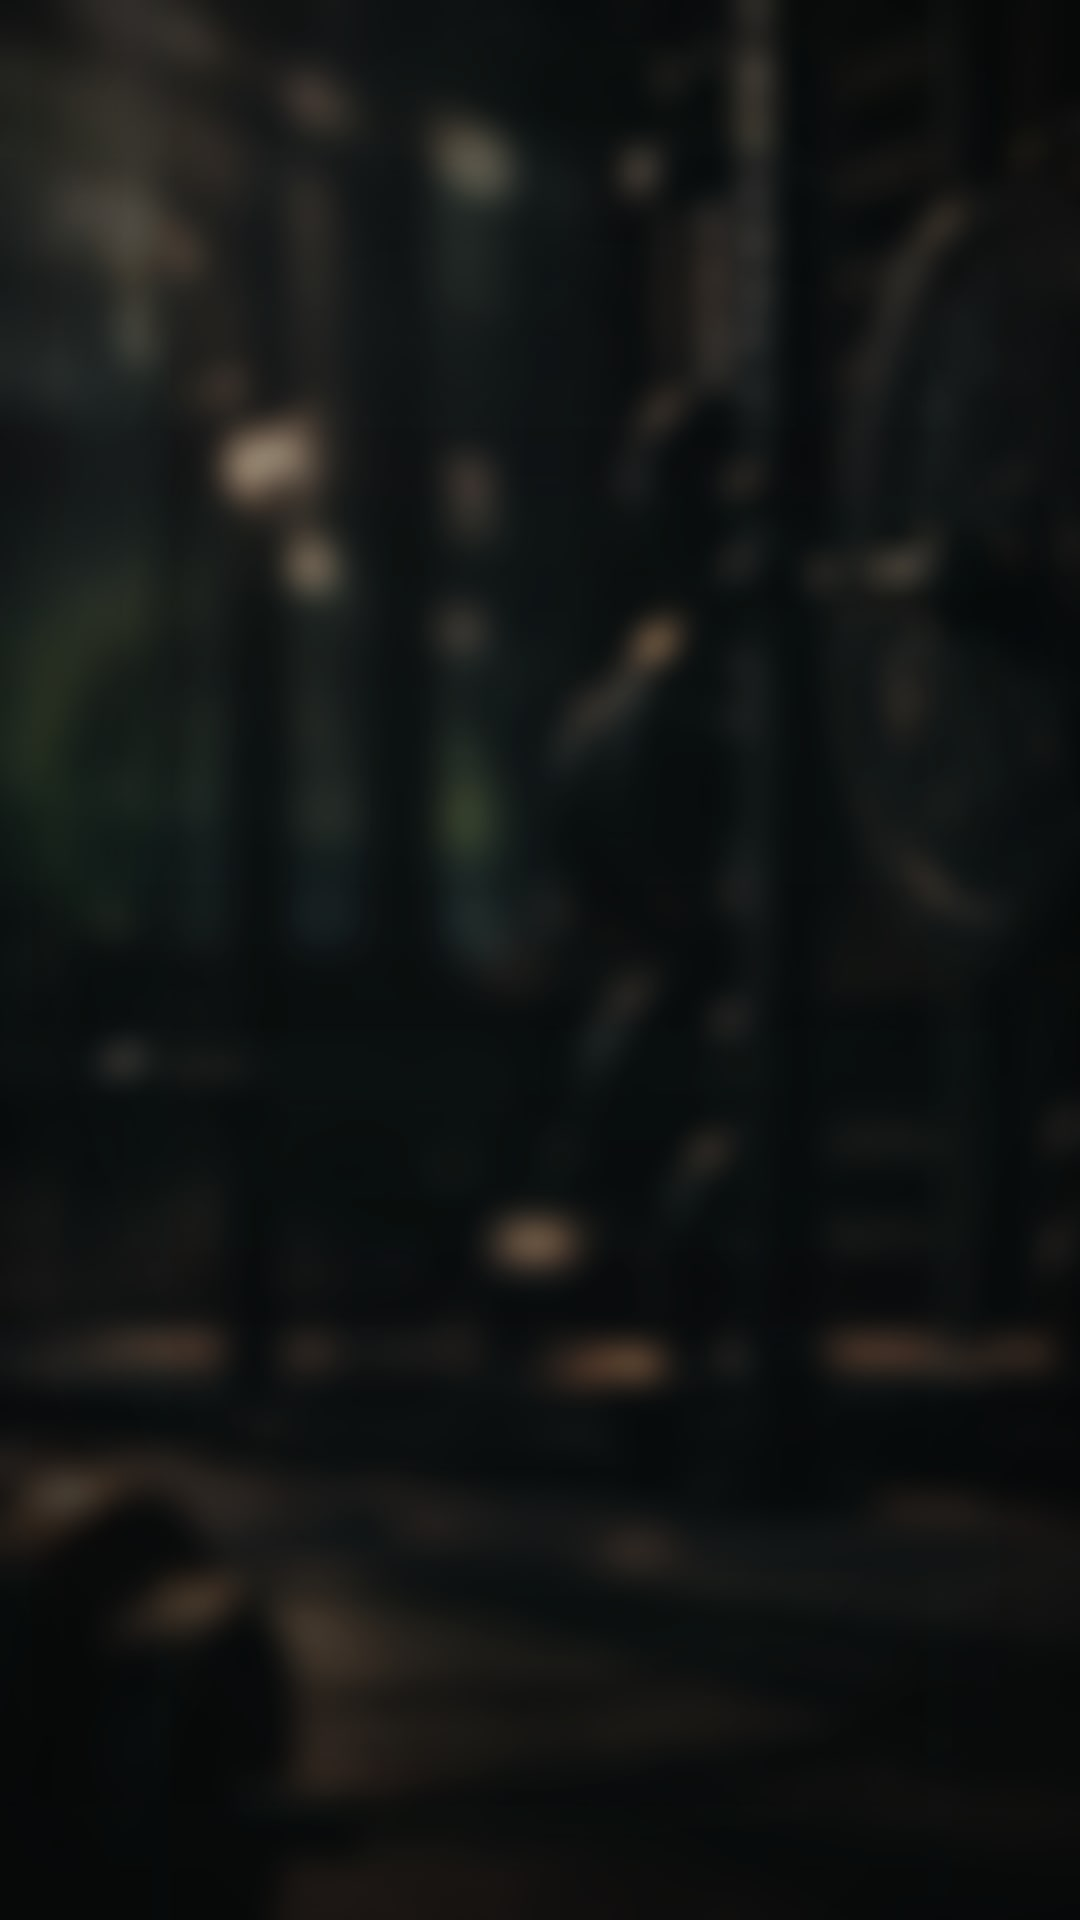
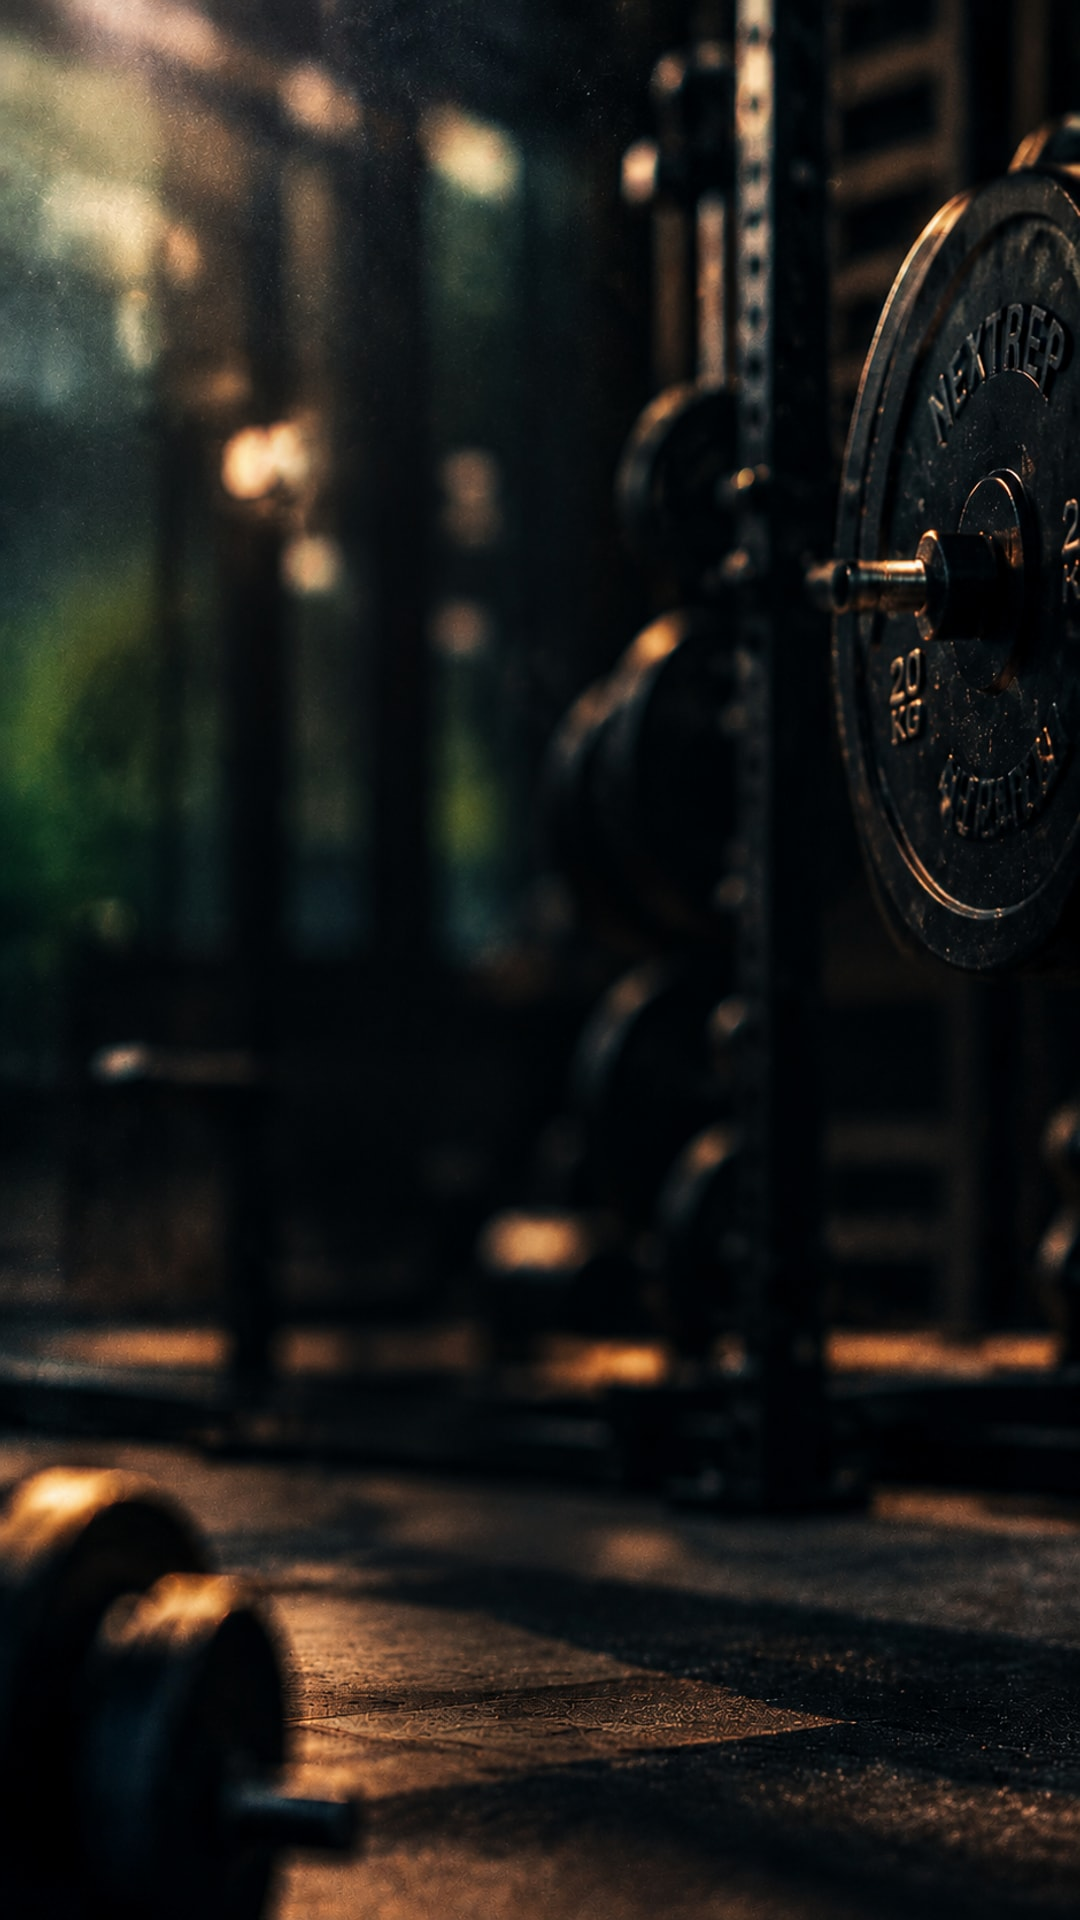
fix(workout): fill the summary card with the sharp gym photo

diff --git a/src/components/workout-share-card.tsx b/src/components/workout-share-card.tsx
@@ -1,3 +1,4 @@
+import { Image as ExpoImage } from 'expo-image';
 import { LinearGradient } from 'expo-linear-gradient';
 import * as Sharing from 'expo-sharing';
 import { Calendar, Check, Share2 } from 'lucide-react-native';
@@ -69,9 +70,9 @@ function getCardScale(availableWidth: number): number {
 /**
  * 9:16 shareable workout completion asset.
  *
- * A dark, heavily blurred gym photograph supplies the atmosphere; the data sits
- * on two restrained frosted surfaces and the typography carries the hierarchy.
- * All values, PR detection and sharing behavior remain live from the store.
+ * A crisp, low-key gym photograph supplies the atmosphere; the data sits on two
+ * restrained frosted surfaces and the typography carries the hierarchy. All
+ * values, PR detection and sharing behavior remain live from the store.
  */
 export const WorkoutShareCard = forwardRef<WorkoutShareCardHandle, WorkoutShareCardProps>(
   function WorkoutShareCard({ workout, allWorkouts, gender = 'male' }, ref) {
@@ -212,19 +213,20 @@ export const WorkoutShareCard = forwardRef<WorkoutShareCardHandle, WorkoutShareC
             const width = event.nativeEvent.layout.width;
             setCanvasWidth((current) => (Math.abs(current - width) > 0.5 ? width : current));
           }}>
-          {/* Blurred, darkened gym photograph — atmosphere only */}
-          <Image
+          {/* Crisp gym photograph — the subject stays readable behind the type */}
+          <ExpoImage
             source={require('../../assets/images/gym-atmosphere.jpg')}
-            style={StyleSheet.absoluteFill}
-            resizeMode="cover"
+            style={styles.backgroundImage}
+            contentFit="cover"
+            transition={0}
           />
 
           {/* Neutral scrim protects the type without flattening the photograph */}
           <LinearGradient
             colors={[
+              'rgba(2, 6, 5, 0.22)',
+              'rgba(2, 6, 5, 0.04)',
               'rgba(2, 6, 5, 0.34)',
-              'rgba(2, 6, 5, 0.12)',
-              'rgba(2, 6, 5, 0.46)',
             ]}
             locations={[0, 0.44, 1]}
             style={StyleSheet.absoluteFill}
@@ -233,25 +235,18 @@ export const WorkoutShareCard = forwardRef<WorkoutShareCardHandle, WorkoutShareC
 
           {/* Live theme atmosphere, never a fixed green */}
           <LinearGradient
-            colors={[withAlpha(accent, 0.16), withAlpha(accent, 0.035), 'transparent']}
+            colors={[withAlpha(accent, 0.10), withAlpha(accent, 0.02), 'transparent']}
             start={{ x: 0, y: 0 }}
             end={{ x: 0.72, y: 0.6 }}
             style={StyleSheet.absoluteFill}
             pointerEvents="none"
           />
           <LinearGradient
-            colors={['transparent', withAlpha(accent, 0.055)]}
+            colors={['transparent', withAlpha(accent, 0.04)]}
             start={{ x: 0.6, y: 0.5 }}
             end={{ x: 1, y: 1 }}
             style={StyleSheet.absoluteFill}
             pointerEvents="none"
-          />
-
-          {/* Barely-there film grain keeps the photo and glass from feeling sterile */}
-          <Image
-            source={require('../../assets/images/grain.png')}
-            style={styles.grainLayer}
-            resizeMode="cover"
           />
 
           {/* Accessible title string for screen readers and automated test suites */}
@@ -458,13 +453,14 @@ function createStyles(scale: number) {
       shadowRadius: s(28),
       elevation: 12,
     },
-    grainLayer: {
+    backgroundImage: {
       position: 'absolute',
       top: 0,
       left: 0,
       right: 0,
       bottom: 0,
-      opacity: 0.62,
+      width: '100%',
+      height: '100%',
     },
     cardBody: {
       flex: 1,
@@ -595,7 +591,10 @@ function createStyles(scale: number) {
       fontSize: s(10.6),
       lineHeight: s(14),
       letterSpacing: s(0.1),
-      color: 'rgba(247, 248, 246, 0.58)',
+      color: 'rgba(247, 248, 246, 0.66)',
+      textShadowColor: 'rgba(0, 0, 0, 0.5)',
+      textShadowOffset: { width: 0, height: 1 },
+      textShadowRadius: s(6),
     },
     subtitleDot: {
       width: s(2.5),
